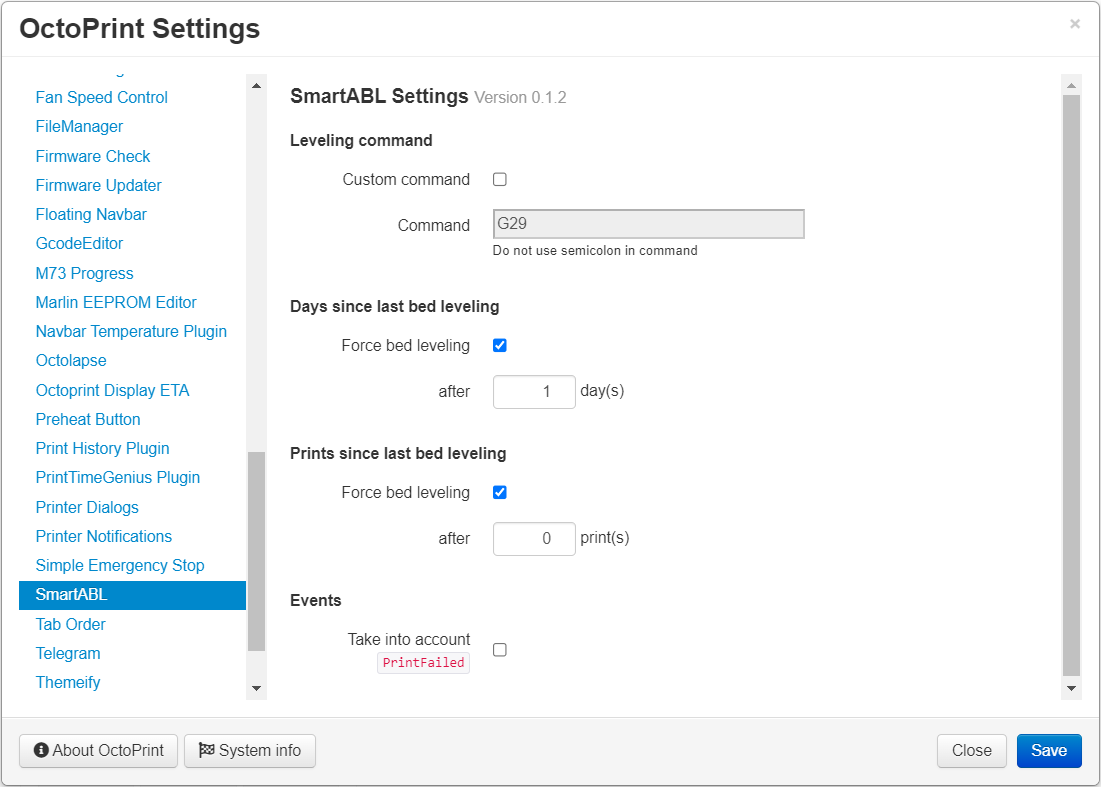
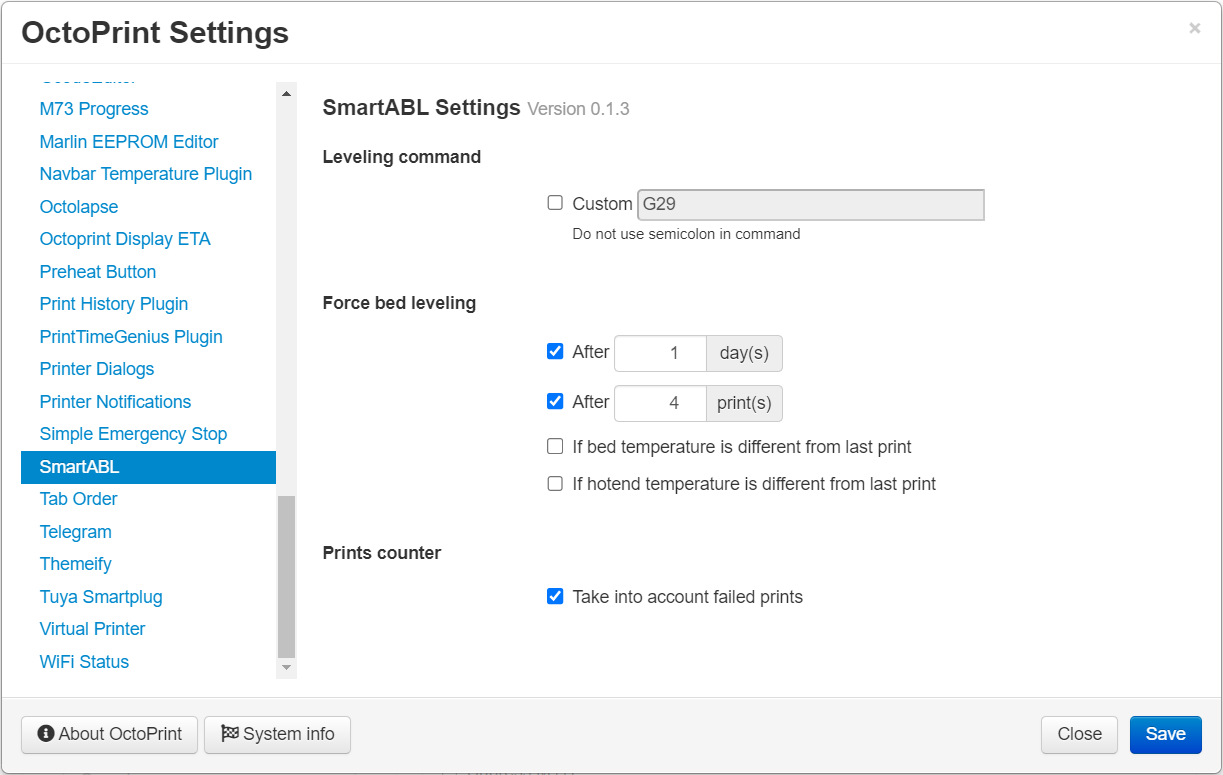
Improved settings panel. Added new conditions to force ABL. Updated README and images

diff --git a/octoprint_SmartABL/static/css/SmartABL.css b/octoprint_SmartABL/static/css/SmartABL.css
@@ -6,3 +6,7 @@
 .smartabl-radio {
     width: 50%;
 }
+
+.smartabl-addon {
+    width: 50px !important;
+}

diff --git a/octoprint_SmartABL/__init__.py b/octoprint_SmartABL/__init__.py
@@ -5,6 +5,7 @@ from datetime import date, datetime
 import octoprint.plugin
 import logging
 import json
+import re
 
 
 class SmartABLPlugin(octoprint.plugin.EventHandlerPlugin,
@@ -12,11 +13,14 @@ class SmartABLPlugin(octoprint.plugin.EventHandlerPlugin,
                      octoprint.plugin.SettingsPlugin,
                      octoprint.plugin.TemplatePlugin,
                      octoprint.plugin.AssetPlugin):
+    temp_regx = re.compile(r'M(?:140|104).*?S(\d+)')
+
     def __init__(self):
         self.smart_logger = None
         self.state = None
         self.valid_mesh = False
-        self.already_saved = False
+        self.cache = set()
+        self.force_temp = False
 
     # Plugin: Parent class
     def initialize(self):
@@ -41,6 +45,10 @@ class SmartABLPlugin(octoprint.plugin.EventHandlerPlugin,
             )
         if 'abl_always' not in self.state:
             self.state['abl_always'] = False
+        if 'last_bedtemp' not in self.state:
+            self.state['last_bedtemp'] = 0
+        if 'last_hetemp' not in self.state:
+            self.state['last_hetemp'] = 0
         self._save()
         self._smartabl_logger.debug(
                 f"@initialize > {self._dbg()}")
@@ -58,6 +66,7 @@ class SmartABLPlugin(octoprint.plugin.EventHandlerPlugin,
                 f"@on_event > Trigger(event={event}) || "
                 f"{self._dbgsettings()}")
             if event == 'PrintStarted':
+                self.cache = set()
                 self._printer.commands('M420 V1')
                 self._smartabl_logger.debug(
                     "@on_event:print_start >> Mesh query")
@@ -89,7 +98,9 @@ class SmartABLPlugin(octoprint.plugin.EventHandlerPlugin,
             days=1,
             force_prints=False,
             prints=5,
-            failed=False
+            failed=False,
+            bedtemp=False,
+            hetemp=False
         )
 
     # TemplatePlugin
@@ -138,13 +149,14 @@ class SmartABLPlugin(octoprint.plugin.EventHandlerPlugin,
             self._smartabl_logger.debug(
                 f"@queuing_gcode > {self._dbg()}")
             if (self.state['abl_always']
+                    or self.force_temp
                     or self.state['first_time']
                     or not self.valid_mesh
                     or (self._get('force_days')
                         and self._diff_days() >= self._get('days', 'i'))
                     or (self._get('force_prints')
                         and self.state['prints'] >= self._get('prints', 'i'))):
-                self.already_saved = False
+                self.force_temp = False
                 rewrite = [self._get('cmd_gcode', 's')
                            if self._get('cmd_custom')
                            else cmd, 'M500']
@@ -153,7 +165,7 @@ class SmartABLPlugin(octoprint.plugin.EventHandlerPlugin,
                     f"{self._dbginternal()}")
                 return rewrite
             else:
-                self.already_saved = True
+                self.cache.add('M500')
                 self._smartabl_logger.debug(
                     "@queuing_gcode:abl_skip >> Sending M420 S1 > "
                     f"{self._dbginternal()}")
@@ -166,18 +178,42 @@ class SmartABLPlugin(octoprint.plugin.EventHandlerPlugin,
         if ('tags' in kwargs and kwargs['tags'] is not None
                 and f'plugin:{self._identifier}' in kwargs['tags']
                 and 'source:file' in kwargs['tags']
-                and gcode == 'M500' and not self.already_saved):
+                and gcode in ('M140', 'M104', 'M500')):
             self._smartabl_logger.debug(
-                f"@sent_gcode > Trigger(gcode={gcode}) || {self._dbg()}")
-            self.already_saved = True
-            if self.state['first_time']:
-                self.state['first_time'] = False
-            self.state['prints'] = 0
-            self.state['last_mesh'] = self._today()
-            self._save()
-            self._smartabl_logger.debug(
-                f"@sent_gcode:update > {self._dbgstate()} || "
-                f"{self._dbginternal()}")
+                f"@sent_gcode > Trigger(cmd={cmd}) || {self._dbg()}")
+            if gcode in ('M140', 'M104') and gcode not in self.cache:
+                self.cache.add(gcode)
+                setting = 'bedtemp'
+                state = 'last_bedtemp'
+                if gcode == 'M104':
+                    setting = 'hetemp'
+                    state = 'last_hetemp'
+                try:
+                    temp = int(self.temp_regx.match(cmd).group(1))
+                except AttributeError:
+                    self._smartabl_logger.debug(
+                        f"@sent_gcode:parse_error > Trigger(cmd={cmd}) || "
+                        f"{self._dbg()}")
+                else:
+                    if (self._get(setting)
+                            and state in self.state
+                            and temp != self.state[state]):
+                        self.force_temp = True
+                    self.state[state] = temp
+                    self._save()
+                    self._smartabl_logger.debug(
+                        f"@sent_gcode:update > {self._dbgstate()} || "
+                        f"{self._dbginternal()}")
+            elif gcode == 'M500' and gcode not in self.cache:
+                self.cache.add(gcode)
+                if self.state['first_time']:
+                    self.state['first_time'] = False
+                self.state['prints'] = 0
+                self.state['last_mesh'] = self._today()
+                self._save()
+                self._smartabl_logger.debug(
+                    f"@sent_gcode:update > {self._dbgstate()} || "
+                    f"{self._dbginternal()}")
 
     # Hook: octoprint.comm.protocol.gcode.received
     def process_line(self, comm_instance, line, *args, **kwargs):
@@ -189,6 +225,10 @@ class SmartABLPlugin(octoprint.plugin.EventHandlerPlugin,
             self.valid_mesh = True
             self._smartabl_logger.debug(
                 f"@process_line:update > {self._dbginternal()}")
+        # elif 'M420 S1.0 Z0.0' in line:
+        #     self.valid_mesh = True
+        #     self._smartabl_logger.debug(
+        #         f"@process_line:VIRTUALPRINTER > {self._dbginternal()}")
         return line
 
     def _today(self):
@@ -217,7 +257,9 @@ class SmartABLPlugin(octoprint.plugin.EventHandlerPlugin,
                 f"days={self._get('days', 'i')}, "
                 f"force_prints={self._get('force_prints')}, "
                 f"prints={self._get('prints', 'i')}, "
-                f"failed={self._get('failed')}"
+                f"failed={self._get('failed')}, "
+                f"bedtemp={self._get('bedtemp')}, "
+                f"hetemp={self._get('hetemp')}"
                 f")")
 
     def _dbgstate(self):
@@ -225,13 +267,16 @@ class SmartABLPlugin(octoprint.plugin.EventHandlerPlugin,
                 f"first_time={self.state['first_time']}, "
                 f"prints={self.state['prints']}, "
                 f"last_mesh={self.state['last_mesh']}, "
-                f"abl_always={self.state['abl_always']}"
+                f"abl_always={self.state['abl_always']}, "
+                f"last_bedtemp={self.state['last_bedtemp']}, "
+                f"last_hetemp={self.state['last_hetemp']}"
                 f")")
 
     def _dbginternal(self):
         return (f"Internal("
                 f"valid_mesh={self.valid_mesh}, "
-                f"already_saved={self.already_saved}"
+                f"cache={self.cache}, "
+                f"force_temp={self.force_temp}"
                 f")")
 
     def _events(self):

diff --git a/README.md b/README.md
@@ -35,23 +35,20 @@ auto bed leveling. User *must* change default values in settings:
 ### Settings panel
 
 **Leveling command**
-- **custom** (disabled): Ignore gcode read from files and send a
-custom gcode instead.
-- **command** (G29): Change the custom gcode sent to the printer.
+- Ignore gcode read from files and send a custom gcode instead.
+Default: disabled (G29).
 
-**Days**
-- **force** (disabled): Force bed mesh update if the `after days`
-condition is met.
-- **after**(1): Days after last print before forcing mesh update.
+**Force bed leveling**
+- After `#` days. Default: disabled (1).
+- After `#` prints. Default: disabled (5).
+- If current print bed temperature is different from last print.
+Default: disabled.
+- If current print hotend temperature is different from last print.
+Default: disabled.
 
-**Prints**
-- **force** (disabled): Force bed mesh update if the `after prints` condition is met.
-- **after**(5): Prints completed before forcing mesh update.
-
-**Events**
-- **failed** (disabled): Take into account `PrintFailed` events
-in the `prints` counter. Otherwise, only `PrintDone` (successful prints)
-are taken into account.
+**Prints counter**
+- Take into account failed prints in the counter.
+Default: disabled (only successful prints increase the counter).
 
 <div align="center">
     <img alt="Screenshot of SmartABL settings panel" src="plugins.octoprint.org/assets/img/plugins/SmartABL/settings.png" width="80%"></img>

diff --git a/plugins.octoprint.org/SmartABL.md b/plugins.octoprint.org/SmartABL.md
@@ -68,23 +68,20 @@ auto bed leveling. User *must* change default values in settings:
 ### Settings panel
 
 **Leveling command**
-- **custom** (disabled): Ignore gcode read from files and send a
-custom gcode instead.
-- **command** (G29): Change the custom gcode sent to the printer.
+- Ignore gcode read from files and send a custom gcode instead.
+Default: disabled (G29).
 
-**Days**
-- **force** (disabled): Force bed mesh update if the `after days`
-condition is met.
-- **after**(1): Days after last print before forcing mesh update.
+**Force bed leveling**
+- After `#` days. Default: disabled (1).
+- After `#` prints. Default: disabled (5).
+- If current print bed temperature is different from last print.
+Default: disabled.
+- If current print hotend temperature is different from last print.
+Default: disabled.
 
-**Prints**
-- **force** (disabled): Force bed mesh update if the `after prints` condition is met.
-- **after**(5): Prints completed before forcing mesh update.
-
-**Events**
-- **failed** (disabled): Take into account `PrintFailed` events
-in the `prints` counter. Otherwise, only `PrintDone` (successful prints)
-are taken into account.
+**Prints counter**
+- Take into account failed prints in the counter.
+Default: disabled (only successful prints increase the counter).
 
 <div align="center">
     <img alt="Screenshot of SmartABL settings panel" src="/assets/img/plugins/SmartABL/settings.png" width="80%"></img>
